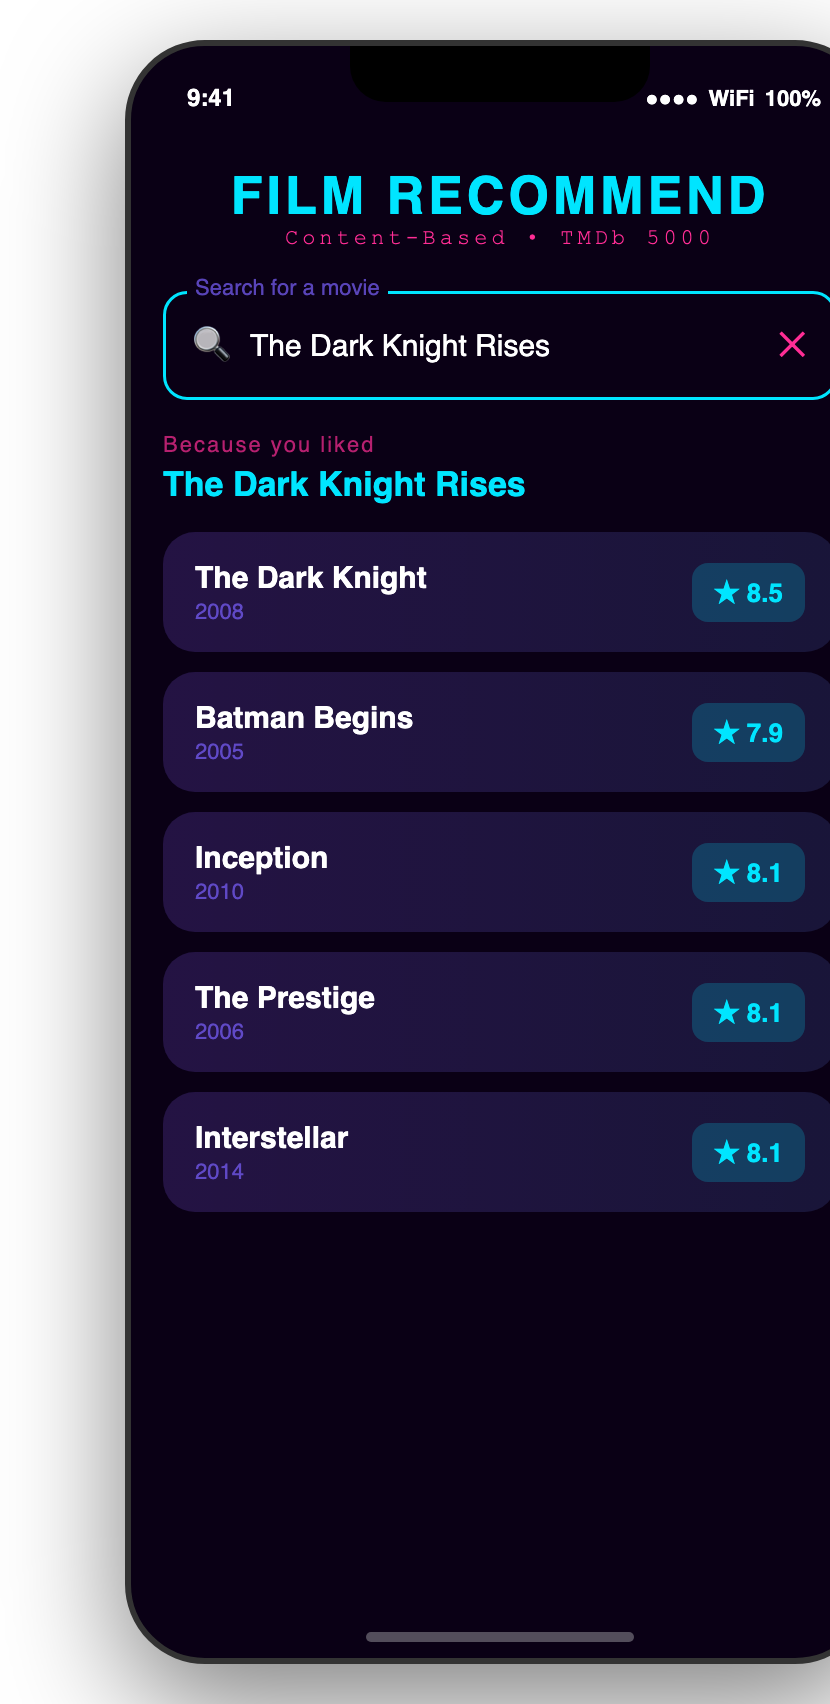
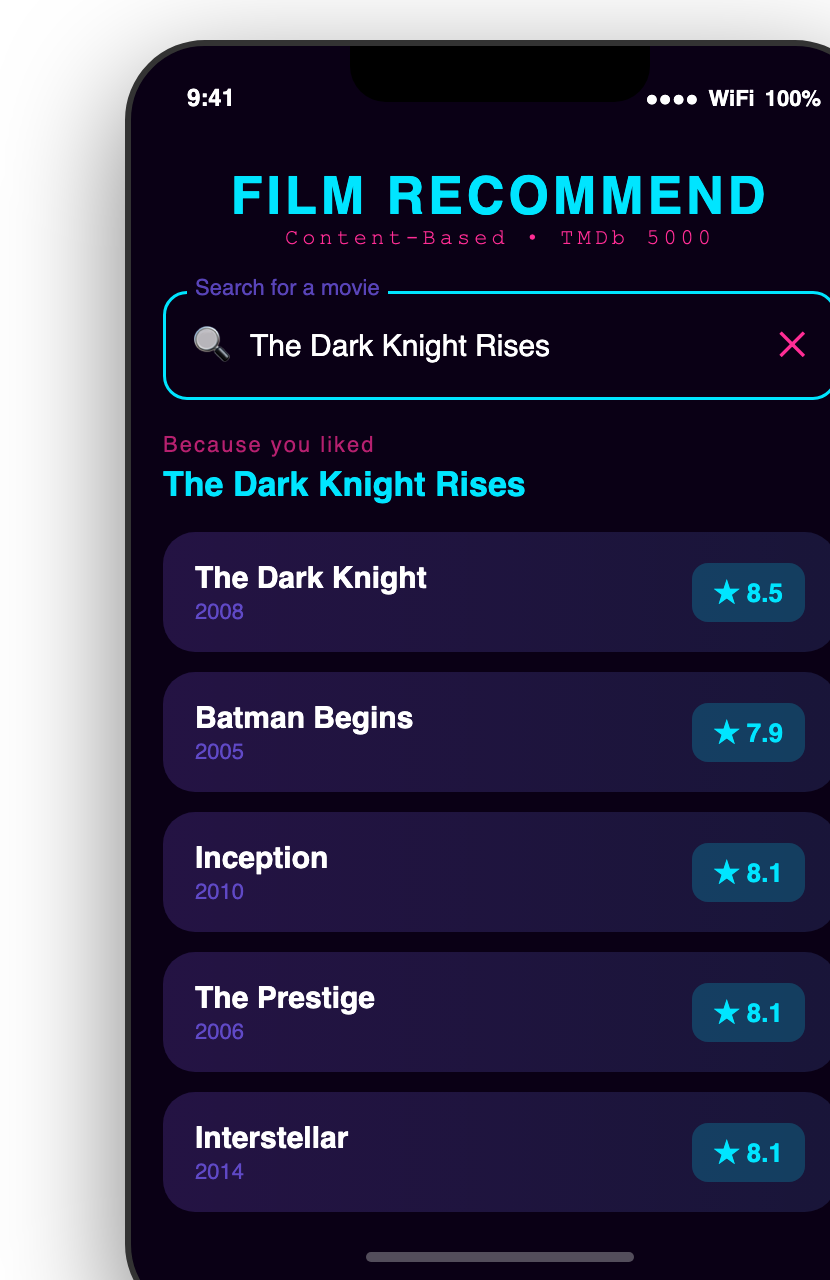
Fix cropped mobile preview images — tighter framing, no empty space

diff --git a/README.md b/README.md
@@ -19,9 +19,9 @@ A content-based movie recommendation system built on the **TMDb 5000 dataset**. 
 </p>
 
 <p align="center">
-  <img src="assets/preview_android.png" alt="Android App" width="280">
+  <img src="assets/preview_android.png" alt="Android App" width="320">
   &nbsp;&nbsp;&nbsp;&nbsp;
-  <img src="assets/preview_ios.png" alt="iOS App" width="280">
+  <img src="assets/preview_ios.png" alt="iOS App" width="320">
 </p>
 
 <p align="center">
